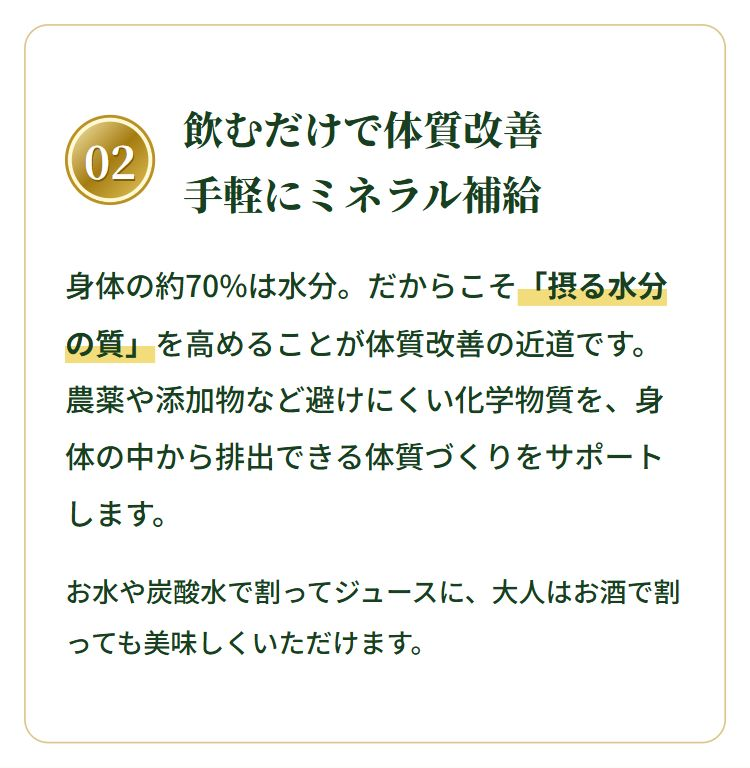
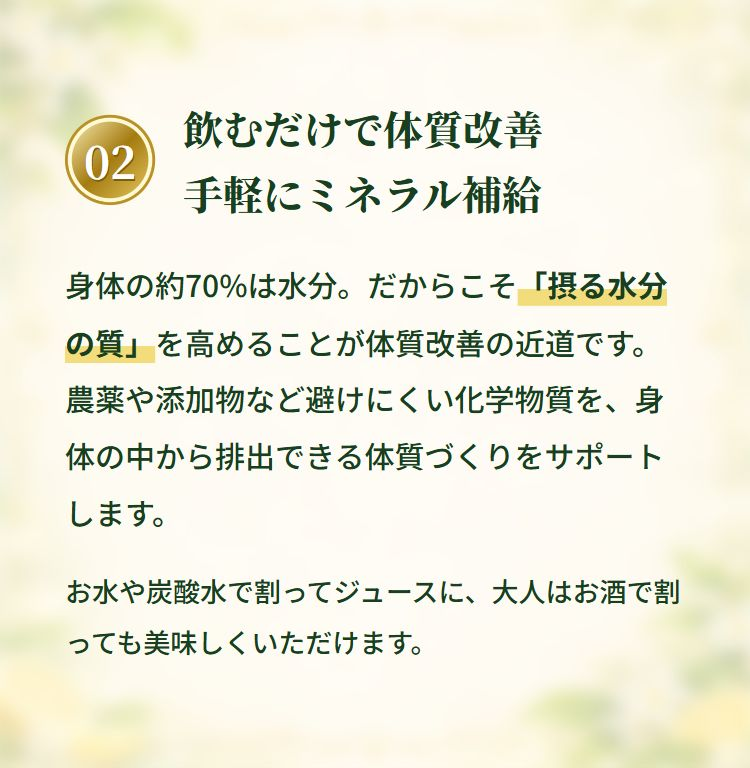
Use supplied section artwork and soften benefit background

diff --git a/image-lp/index.html b/image-lp/index.html
@@ -10,7 +10,7 @@
 <link rel="preconnect" href="https://fonts.googleapis.com"><link rel="preconnect" href="https://fonts.gstatic.com" crossorigin><link href="https://fonts.googleapis.com/css2?family=Noto+Sans+JP:wght@400;500;600;700&family=Noto+Serif+JP:wght@500;600;700;800;900&display=swap" rel="stylesheet"><link rel="stylesheet" href="style.css?v=20261117b"></head><body>
 <a class="skip-link" href="#lesson">教室の内容へ移動</a><div class="page"><p class="preview-label">デザイン確認用・画像LP案</p>
 <main><section class="fv" aria-label="ミネラル醗酵ドリンク教室のご案内"><img src="images/fv.jpg?v=20261117b" width="941" height="1672" alt="" fetchpriority="high"><div class="screen-reader-text"><h1>身体の内側からも外側からも 自然由来の力で最高の自分に導く</h1><p>美しく健やかな暮らしのきっかけに。ミネラル醗酵ドリンクの作り方を学ぶ教室です。</p><p>ミネラル醗酵ドリンク教室。対面レッスン4,000円。オンラインレッスン5,000円＋送料。</p><p>日程・準備物などの詳細は、お申し込み後にご案内します。</p></div><a class="fv-apply" href="https://ssl.form-mailer.jp/fms/99c003f5839394" aria-label="教室に申し込む"><span class="screen-reader-text">教室に申し込む</span></a></section>
-<section class="image-section" id="worries"><img src="images/worries.jpg?v=20261117b" width="750" height="1145" alt="" loading="lazy"><div class="screen-reader-text">
+<section class="image-section" id="worries"><img src="images/worries-user.png?v=20261117d" width="1024" height="1536" alt="" loading="lazy"><div class="screen-reader-text">
         <h2 >こんなお悩み<br>ありませんか？</h2>
         <ul class="worry-list"><li>自分や家族の食事の添加物が気になる</li><li>忙しくて無添加の食事を作りたくても作れない</li><li>身体の内側から健康を目指したい</li><li>なるべくコストをかけずに美しくなりたい</li><li>口に入れるものからも運気をアップさせたい</li></ul>
       </div></section>
@@ -20,13 +20,13 @@
 <p>お好きなフルーツ・てんさい糖・特殊なミネラル水だけで作ります。てんさい糖は上白糖よりミネラルやビタミンを含み、腸内環境を整える天然のオリゴ糖入り。</p>
 <p>厚生労働省が推奨する必須ミネラルは16種類。当教室では<strong>微量元素ミネラル※が30種類以上</strong>含まれた特殊なミネラル水を使用します。</p>
 <p>※人体を構成する元素のうち、酸素・炭素・水素・窒素を除いたミネラルの中で、極めて少量しか存在しないもの</p></div></section>
-<section class="image-section" id="benefit-2"><img src="images/benefit-2.jpg?v=20261117c" width="750" height="768" alt="" loading="lazy"><div class="screen-reader-text"><div class="benefit-heading"><span class="benefit-number" aria-hidden="true">02</span><h3>飲むだけで体質改善<br>手軽にミネラル補給</h3></div>
+<section class="image-section" id="benefit-2"><img src="images/benefit-2.jpg?v=20261117e" width="750" height="768" alt="" loading="lazy"><div class="screen-reader-text"><div class="benefit-heading"><span class="benefit-number" aria-hidden="true">02</span><h3>飲むだけで体質改善<br>手軽にミネラル補給</h3></div>
 <p>身体の約70%は水分。だからこそ<strong>「摂る水分の質」</strong>を高めることが体質改善の近道です。農薬や添加物など避けにくい化学物質を、身体の中から排出できる体質づくりをサポートします。</p>
 <p>お水や炭酸水で割ってジュースに、大人はお酒で割っても美味しくいただけます。</p></div></section>
 <section class="image-section" id="benefit-3"><img src="images/benefit-3.jpg?v=20261117b" width="750" height="562" alt="" loading="lazy"><div class="screen-reader-text"><div class="benefit-heading"><span class="benefit-number" aria-hidden="true">03</span><h3>体質改善から<br>運気UPへ！</h3></div>
 <p>人の身体は自然界にないものにとても弱く、化学物質はエネルギーや波動を下げてしまいます。ミネラル醗酵ドリンクで体質改善を促し、下がったエネルギーや波動を上げて運気UPにつなげます。</p></div></section>
 <section class="image-section" id="gains"><img src="images/gains.jpg?v=20261117b" width="750" height="848" alt="" loading="lazy"><div class="screen-reader-text"><h3>教室に参加すると…</h3><ul><li>朝のファスティング用ドリンクに最適な一本が作れる</li><li>微量元素ミネラル30種以上のお水を使い、ミネラルの必要性が学べる</li><li>願いが叶う「言霊」の話も聞けて、運気も上昇</li></ul></div></section>
-<section class="image-section" id="lesson"><img src="images/lesson.jpg?v=20261117b" width="750" height="1487" alt="" loading="lazy"><div class="screen-reader-text">
+<section class="image-section" id="lesson"><img src="images/lesson-user.png?v=20261117d" width="1086" height="1448" alt="" loading="lazy"><div class="screen-reader-text">
         <h2 >教室の内容</h2>
         <p class="section-lead">ミネラル醗酵ドリンクを、<br>ご自身の手で作るレッスンです。</p>
         <p>お茶の時間も含めて、約1時間半〜2時間。<br>教室で作ったドリンクは、お持ち帰りいただけます。</p>
@@ -59,7 +59,7 @@
         <div class="price-card"><h3>オンラインレッスン</h3><p class="price"><strong>5,000</strong>円<span>＋送料</span></p><p>教室で使用するキットをお送りします。</p></div>
         <ul class="preparation"><li>お好きなフルーツ（1.2kg）をご準備ください。</li><li>オンラインレッスンでは、ほかにも準備物がございます。詳細はお申し込み後にご案内いたします。</li></ul>
         </div></section>
-<section class="image-section" id="flow"><img src="images/flow.jpg?v=20261117b" width="750" height="748" alt="" loading="lazy"><div class="screen-reader-text"><h3 class="flow-heading">お申し込みの流れ</h3>
+<section class="image-section" id="flow"><img src="images/flow-user.png?v=20261117d" width="1448" height="1086" alt="" loading="lazy"><div class="screen-reader-text"><h3 class="flow-heading">お申し込みの流れ</h3>
         <ol class="steps"><li><span aria-hidden="true">1</span><p>お申し込みフォームから送信</p></li><li><span aria-hidden="true">2</span><p>日程・準備物などの詳細をご案内</p></li><li><span aria-hidden="true">3</span><p>教室当日（対面またはオンライン）</p></li></ol>
         </div></section>
 <div class="section-action"><a class="apply-button" href="https://ssl.form-mailer.jp/fms/99c003f5839394">教室に申し込む<span aria-hidden="true">▶</span></a><p class="cta-note">日程・準備物などの詳細は、<br>お申し込み後にご案内します。</p></div>
